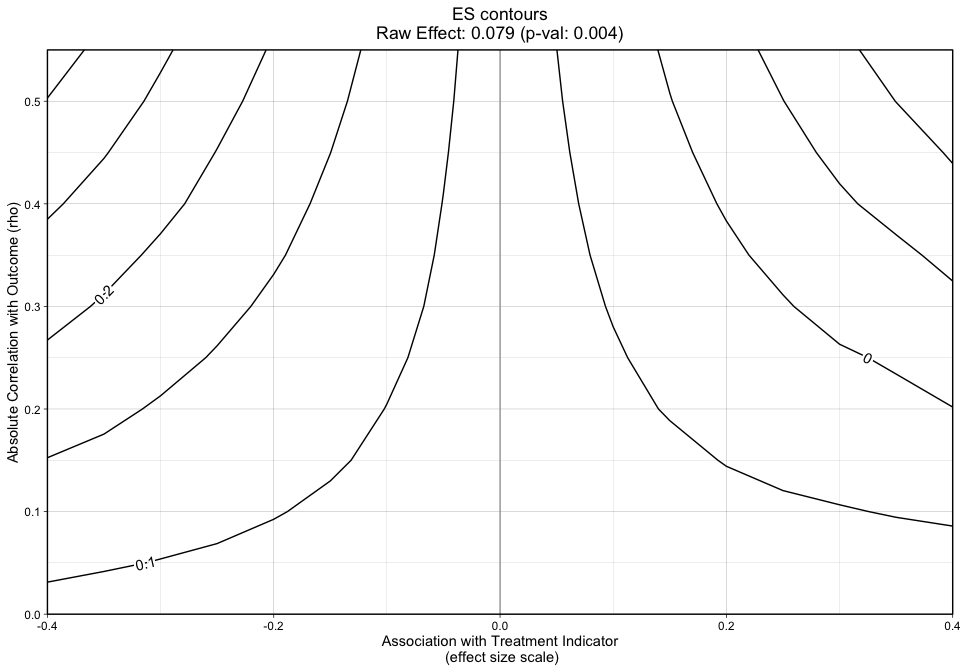
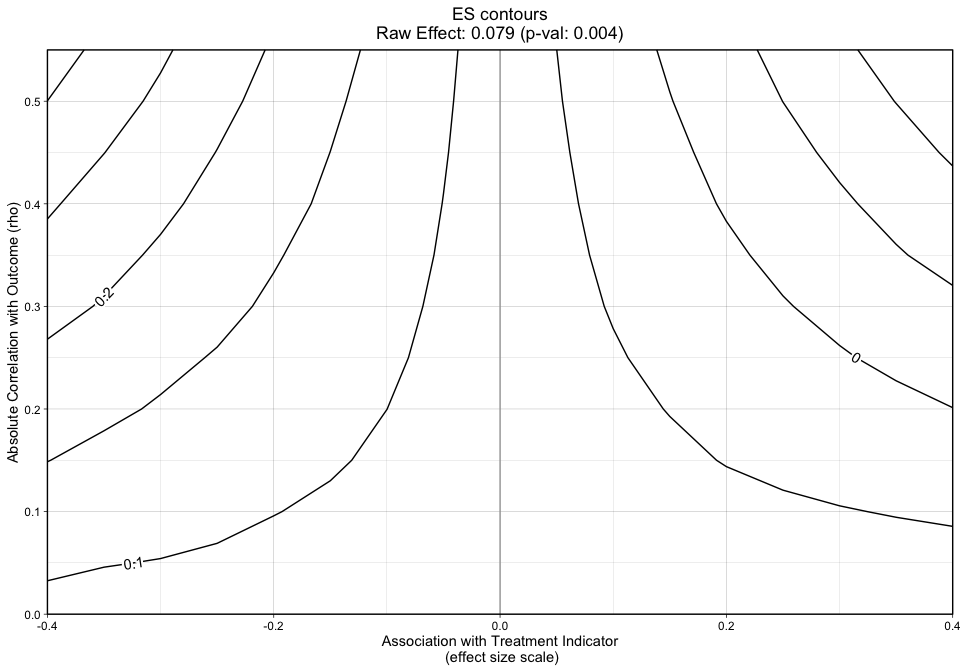
update vignette and README

diff --git a/README.md b/README.md
@@ -5,7 +5,7 @@
 # Introduction
 
 *Note: This is a work in progress.. This document was lasted updated
-2020-12-16 08:04:46*
+2021-01-19 21:05:29*
 
 The <ins>O</ins>mitted <ins>V</ins>ariable <ins>T</ins>ool (`OVtool`)
 package was designed to assess the sensitivity of research findings to
@@ -75,28 +75,6 @@ you restart your R session after running:*
 ``` r
 # install.packages("devtools")
 devtools::install_github("jpane24/OVtool", ref='master') 
-```
-
-    #> spam     (2.5-1 -> 2.6-0) [CRAN]
-    #> pkgbuild (1.1.0 -> 1.2.0) [CRAN]
-    #> 
-    #>   There are binary versions available but the source versions are later:
-    #>          binary source needs_compilation
-    #> spam      2.5-1  2.6-0              TRUE
-    #> pkgbuild  1.1.0  1.2.0             FALSE
-    #> 
-    #>      checking for file ‘/private/var/folders/ks/ll8v5y8x6rz_cgvtgk6zln90b6fd3c/T/RtmpTY4D8O/remotes1d9b612e9eac/jpane24-OVtool-17cb648/DESCRIPTION’ ...  ✓  checking for file ‘/private/var/folders/ks/ll8v5y8x6rz_cgvtgk6zln90b6fd3c/T/RtmpTY4D8O/remotes1d9b612e9eac/jpane24-OVtool-17cb648/DESCRIPTION’
-    #>   ─  preparing ‘OVtool’:
-    #>      checking DESCRIPTION meta-information ...  ✓  checking DESCRIPTION meta-information
-    #>   ─  checking for LF line-endings in source and make files and shell scripts
-    #>   ─  checking for empty or unneeded directories
-    #>   ─  building ‘OVtool_1.0.0.tar.gz’
-    #>      Warning: invalid uid value replaced by that for user 'nobody'
-    #>    Warning: invalid gid value replaced by that for user 'nobody'
-    #>      
-    #> 
-
-``` r
 # we recommend restarting your R session after running the previous line of code
 # for the first time on your machine
 library(OVtool)
@@ -507,7 +485,7 @@ summary.ov(object = ovtool_results_twang, model_results = results)
     #> [1] "Statistical significance at the 0.05 level is expected to be robust to unobserved
     confounders with strengths of associations with the treatment indicator and outcome that are seen
     in 4 of the 8 observed confounders. In the most extreme observed case, the p-value would be
-    expected to increase from 0.004 to 0.473. Significance at the 0.05 level would not be expected to
+    expected to increase from 0.004 to 0.478. Significance at the 0.05 level would not be expected to
     be preserved for unobserved confounders that have the same strength of association with the
     treatment indicator and outcome as eps7p_0, sati_0, ada_0, tss_0."
 
@@ -526,7 +504,7 @@ strength of association with the treatment indicator and outcome as
 expected to be robust to unobserved confounders with strengths of
 associations with the treatment indicator and outcome that are seen in 4
 of the 8 observed confounders. In the most extreme observed case, the
-p-value would be expected to increase from 0.004 to 0.473. Significance
+p-value would be expected to increase from 0.004 to 0.49. Significance
 at the 0.05 level would not be expected to be preserved for unobserved
 confounders that have the same strength of association with the
 treatment indicator and outcome as `eps7p_0`, `sati_0`, `ada_0`, and
@@ -679,14 +657,14 @@ plot.ov(ovtool_results_twang_att, print_graphic = "1", col = "bw")
 
 The contours shown in Figure 4 are relatively smooth but we would like
 to smooth them out if possible by simulating our unobserved confounder
-an additional 50 times. The user can do this by running the following
-lines of code.
+an additional 10 times. The user can specify `more_reps` to any number
+they choose in the following function call, `add_reps()`.
 
 ``` r
 # If you want to add repetitions, run the following line. You may change more_reps
 ovtool_results_twang_att = add_reps(OVtool_results = ovtool_results_twang_att,
                                     model_results = results_att,
-                                    more_reps = 50)
+                                    more_reps = 10)
 ```
 
     #> [1] "8% Done!"
@@ -741,8 +719,8 @@ summary.ov(object = ovtool_results_twang_att, model_results = results_att)
     #> [1] "88% Done!"
     #> [1] "100% Done!"
     #> [1] "Recommendation for reporting the sensitivity analyses"
-    #> [1] "The sign of the estimated effect is expected to remain consistent when simulated unobserved confounders have the same strength of associations with the treatment indicator and outcome that are seen in 5 of the 8 observed confounders. In the most extreme observed case in which the sign changes, the estimated effect size shifts from 0.067 to -0.094. The sign of the estimate would not be expected to be preserved for unobserved confounders that have the same strength of association with the treatment indicator and outcome as eps7p_0, sati_0, tss_0."
-    #> [1] "Statistical significance at the 0.05 level is expected to be robust to unobserved confounders with strengths of associations with the treatment indicator and outcome that are seen in 2 of the 8 observed confounders. In the most extreme observed case, the p-value would be expected to increase from 0.025 to 0.999. Significance at the 0.05 level would not be expected to be preserved for unobserved confounders that have the same strength of association with the treatment indicator and outcome as sfs8p_0, sati_0, ada_0, tss_0, mhtrt_0, dss9_0."
+    #> [1] "The sign of the estimated effect is expected to remain consistent when simulated unobserved confounders have the same strength of associations with the treatment indicator and outcome that are seen in 7 of the 8 observed confounders. In the most extreme observed case in which the sign changes, the estimated effect size shifts from 0.067 to -0.038. The sign of the estimate would not be expected to be preserved for unobserved confounders that have the same strength of association with the treatment indicator and outcome as eps7p_0."
+    #> [1] "Statistical significance at the 0.05 level is expected to be robust to unobserved confounders with strengths of associations with the treatment indicator and outcome that are seen in 2 of the 8 observed confounders. In the most extreme observed case, the p-value would be expected to increase from 0.025 to 0.495. Significance at the 0.05 level would not be expected to be preserved for unobserved confounders that have the same strength of association with the treatment indicator and outcome as eps7p_0, sati_0, ada_0, tss_0, mhtrt_0, dss9_0."
 
 # Conclusion
 
@@ -755,11 +733,38 @@ that users will use our tool when they are trying to analyze how
 sensitive their results are to omitted variables when estimating causal
 effects using ps methods.
 
+# About This Tutorial
+
+This tutorial and the development of the OVtool R package were supported
+by funding from grant 1R01DA034065 from the National Institute on Drug
+Abuse. The overarching goal of the grant is to develop statistical
+methods and tools that will provide addiction health services
+researchers and others with the tools and training they need to study
+the effectiveness of treatments using observational data. The work is an
+extension of the Toolkit for Weighting and Analysis of Nonequivalent
+Groups, or TWANG, which contains a set of functions to support causal
+modeling of observational data through the estimation and evaluation of
+propensity score weights. The TWANG package was first developed in 2004
+by RAND researchers for the R statistical computing language and
+environment and has since been expanded to include tools for SAS, Stata,
+and Shiny. For more information about TWANG and other causal tools being
+developed, see www.rand.org/statistics/twang.
+
+RAND Social and Economic Well-Being is a division of the RAND
+Corporation that seeks to actively improve the health and social and
+economic well-being of populations and communities throughout the world.
+This research was conducted in the Social and Behavioral Policy Program
+within RAND Social and Economic Well-Being. The program focuses on such
+topics as risk factors and prevention programs, social safety net
+programs and other social supports, poverty, aging, disability, child
+and youth health and well-being, and quality of life, as well as other
+policy concerns that are influenced by social and behavioral actions and
+systems that affect well-being. For more information, email
+<sbp@rand.org>.
+
 # Acknowledgements
 
-The development of this tutorial was supported by funding from grant
-R01DA045049 (PIs: Griffin/McCaffrey) from the National Institute on Drug
-Abuse. It was also supported by the Center for Substance Abuse Treatment
+We would like to acknowledge the Center for Substance Abuse Treatment
 (CSAT), Substance Abuse and Mental Health Services Administration
 (SAMHA). The authors thank these agencies, grantees, and their
 participants for agreeing to share their data to support creation of the
@@ -768,8 +773,6 @@ dataset of youth receiving two unidentified treatments from the GAIN;
 running on the true dataset will produce different results.
 
 # References
-
-*Will update to link with text*
 
 Cohen, J. (1995). The earth is round (p \< .05): Rejoinder. American
 Psychologist, 50, 1103.
